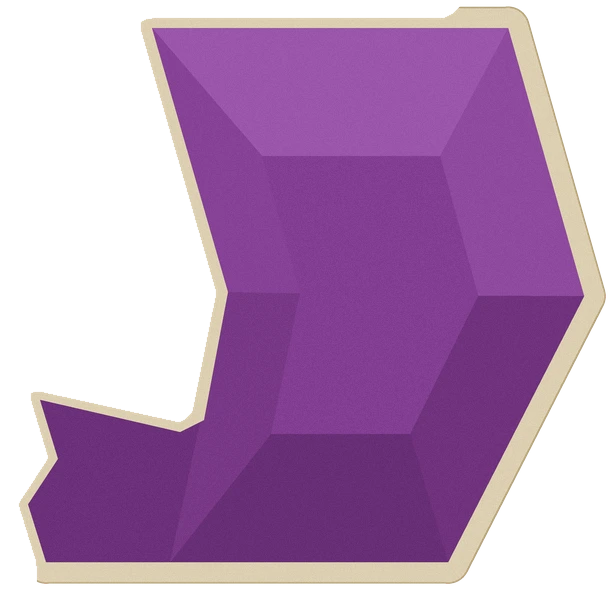
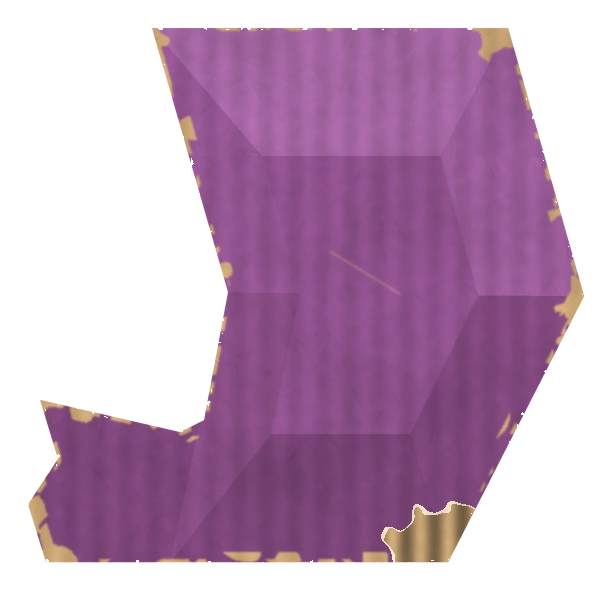
Corner: no rim, printed on kraft cardboard
The health, sparks, gem and turn board lose the beige rim and are now
printed on kraft board: the ink a little soaked in, fibres and flutes
showing through, the print rubbed off along the cut and round the
corners, a scratch or two, and at one corner the liner torn off down to
the corrugation. The disc chips get the same grain from a small tile
(board) laid over them.

Claude-Session: https://claude.ai/code/session_01KWEJqKg8RAuhCNceXPvBeb

diff --git a/src/style.css b/src/style.css
@@ -276,9 +276,11 @@ i.ico { display: inline-block; font-style: normal; }
 
 /* the discs of this turn: a stack of casino chips, the first at the bottom, stretched to fill the column; one still in hand
    shows the hero's disc on top (--disc, the room's picture; his colour without it) over a side in his dark colour with
-   light marks, the thrown ones fade from the top down */
+   light marks, the thrown ones fade from the top down. Like the rest of the corner they are cardboard: the board's grain
+   (--grain, the board picture once it loads) lies over both faces */
 .discs {
   --bx: 0; --by: 0; --bw: 78; --bh: 267; --e: calc(30 * var(--u)); --mk: color-mix(in srgb, var(--c, #888) 40%, #f4ead8);
+  --grain: none;
   display: flex; flex-direction: column-reverse; box-sizing: border-box; padding: calc(var(--e) / 2) 0;
   filter: drop-shadow(0 2px 0 rgba(0, 0, 0, 0.35));
 }
@@ -287,14 +289,17 @@ i.ico { display: inline-block; font-style: normal; }
 .discs i::before {
   content: ''; position: absolute; inset: 0 0 calc(var(--e) / -2);
   border-radius: 0 0 50% 50% / 0 0 calc(var(--e) / 2) calc(var(--e) / 2);
-  background: linear-gradient(90deg, transparent 9%, var(--mk) 9% 17%, transparent 17% 43%, var(--mk) 43% 57%, transparent 57% 83%, var(--mk) 83% 91%, transparent 91%) color-mix(in srgb, var(--c, #888) 62%, #000);
+  background: var(--grain) 0 0 / calc(160 * var(--u)), linear-gradient(90deg, transparent 9%, var(--mk) 9% 17%, transparent 17% 43%, var(--mk) 43% 57%, transparent 57% 83%, var(--mk) 83% 91%, transparent 91%) color-mix(in srgb, var(--c, #888) 62%, #000);
+  background-blend-mode: overlay, normal;
   box-shadow: 0 calc(5 * var(--u)) 0 rgba(0, 0, 0, 0.45);
 }
 /* the top, the hero's disc seen from the side: only the top chip's shows whole */
 .discs i::after {
   content: ''; position: absolute; left: 0; right: 0; top: calc(var(--e) / -2); height: var(--e); border-radius: 50%;
-  background: var(--disc, none) center / 100% 100% no-repeat var(--c, #888);
+  background: var(--grain) 0 0 / calc(160 * var(--u)), var(--disc, none) center / 100% 100% no-repeat var(--c, #888);
+  background-blend-mode: overlay, normal;
 }
+.art-board .discs { --grain: var(--ui-board); }
 .discs i:not(.on) { opacity: 0.3; filter: grayscale(1) brightness(0.5); }
 
 .hpbar { --bx: 79; --by: -14; --bw: 458; --bh: 230; }
@@ -850,13 +855,13 @@ img.art { display: block; width: 100%; height: 100%; object-fit: contain; pointe
 
 /* the health and the sparks as die-cut cardboard (art/ui/draw_corner.py draws them from Vladislav's sketch) */
 /* health: a bow tie with a dip on top, a waist below and a point on the right going into the gem (hp_empty, hp_full,
-   hp_shield: one shape, stretched whole). The red runs from x 28 to 888 of 916, so .track is that span and the fills stay
+   hp_shield: one shape, stretched whole). The red runs from x 24 to 891 of 916, so .track is that span and the fills stay
    plain percentages of it; each fill shows the same picture at the bar's full size (cqw/cqh of the track), shifted by where
    the fill starts (--x, set with it) */
 .art-hp_empty.art-hp_full .corner .hpbar { background: var(--ui-hp_empty) center / 100% 100% no-repeat; filter: drop-shadow(0 2px 0 rgba(0, 0, 0, 0.35)); }
-.art-hp_empty.art-hp_full .corner .hpbar .track { inset: 0 3.057% 0 3.057%; clip-path: none; background: none; container-type: size; }
+.art-hp_empty.art-hp_full .corner .hpbar .track { inset: 0 2.729% 0 2.620%; clip-path: none; background: none; container-type: size; }
 .art-hp_empty.art-hp_full .corner .hpbar.shielded .track { box-shadow: none; }
-.art-hp_empty.art-hp_full .corner .track > * { background: var(--ui-hp_full) calc(-3.256cqw - var(--x, 0) * 1cqw) 0 / 106.51cqw 100cqh no-repeat; }
+.art-hp_empty.art-hp_full .corner .track > * { background: var(--ui-hp_full) calc(-2.768cqw - var(--x, 0) * 1cqw) 0 / 105.65cqw 100cqh no-repeat; }
 .art-hp_empty.art-hp_full .corner .track s { background-image: var(--ui-hp_shield); }
 .art-hp_empty.art-hp_full .corner .track s.risk, .art-hp_empty.art-hp_full .corner .track em { filter: brightness(1.7) saturate(0.5); }
 /* the sparks: three pieces of one crystal, each its own picture in its own box */

diff --git a/art/ui/draw_corner.py b/art/ui/draw_corner.py
@@ -1,31 +1,32 @@
-"""Draws the fight corner's pieces as die-cut cardboard stickers (a beige rim, flat print, no ink line: Vladislav had the
-outline taken off and the shading flattened), after his sketch of 2026-10-18: next to the portrait a column for the stack
-of discs (drawn by style.css as chips), then a big health bar like a bow tie (a dip on top, a waist below, its right end a
-point), the sparks as a crystal strip under it split in two by a crack, and the ability gem standing the full height on
-the right with a notch the health bar's point goes into and a foot under the bar's end: the gem is the third spark, so the
-strip's second crack is the gem's edge. Over the bar's right half and the gem the turn button, its bottom following the
-bar's top.
+"""Draws the fight corner's pieces as die-cut cardboard (flat print on kraft board with its grain and flutes showing,
+rubbed edges and a torn corner; no ink line and no rim: Vladislav had both taken off and the shading flattened), after his
+sketch of 2026-10-18: next to the portrait a column for the stack of discs (drawn by style.css as chips), then a big
+health bar like a bow tie (a dip on top, a waist below, its right end a point), the sparks as a crystal strip under it
+split in two by a crack, and the ability gem standing the full height on the right with a notch the health bar's point
+goes into and a foot under the bar's end: the gem is the third spark, so the strip's second crack is the gem's edge. Over
+the bar's right half and the gem the turn button, its bottom following the bar's top.
 
 All pieces share one plan: the block is 713 x 267 units (x right, y down; the column starts at x 0; the turn button stands
-above it, at negative y). Pieces sit apart by a cut of 9..15 units; each sticker's rim only reaches halfway across a cut,
-so two pieces never paint over each other. Run from the repo root:
+above it, at negative y). Pieces sit apart by a cut of 9..15 units; a rim, if one is asked for, only reaches halfway
+across a cut, so two pieces never paint over each other. Run from the repo root:
 
     python3 art/ui/draw_corner.py [folder] [rim]
 
-It writes hp_empty|hp_full|hp_shield, spk_1..2_on|off, gem and turn (.webp) to public/assets/ui/ (or the folder; rim is
-the rim's width in pixels, 0 for none) and prints the numbers style.css needs: each picture's box in units, the red span
-of the health bar, and the outlines of the gem and the button as clip-path polygons, for where a tap lands.
+It writes hp_empty|hp_full|hp_shield, spk_1..2_on|off, gem, turn and the grain tile board (.webp) to public/assets/ui/
+(or the folder; rim is a beige rim's width in pixels to try one, none by default) and prints the numbers style.css needs:
+each picture's box in units, the red span of the health bar, and the outlines of the gem and the button as clip-path
+polygons, for where a tap lands.
 """
 import sys
 
-from PIL import Image, ImageDraw
+from PIL import Image, ImageDraw, ImageFilter
 import numpy as np
 
 OUT = (sys.argv[1].rstrip('/') + '/') if len(sys.argv) > 1 else 'public/assets/ui/'
 U = 2.0  # pixels per unit
 SS = 4  # supersampling
 M = 14  # margin round each picture, units
-RIM = float(sys.argv[2]) if len(sys.argv) > 2 else 20  # the beige rim round the print, pixels at 1x
+RIM = float(sys.argv[2]) if len(sys.argv) > 2 else 0  # a beige rim round the print, pixels at 1x (he had it taken off)
 RIM_COL, RIM_EDGE = (220, 207, 177), (176, 158, 118)
 BW, BH = 713, 267
 
@@ -116,11 +117,90 @@ def outline(d, p, width, fill):
         d.ellipse([x - r, y - r, x + r, y + r], fill=fill)
 
 
-def noise(img, amount, seed):
-    a = np.asarray(img).astype(np.int16)
-    n = np.random.default_rng(seed).integers(-amount, amount + 1, a.shape[:2])[..., None]
-    a[..., :3] = np.clip(a[..., :3] + n, 0, 255)
+# ---------- the board: kraft cardboard showing through the print ----------
+KRAFT = np.array((200, 164, 116), float)
+
+
+def smooth(rng, shape, scale):
+    """noise with blobs about scale pixels across, wrapping round the edges, scaled to about -1..1"""
+    h, w = shape
+    fy, fx = np.fft.fftfreq(h)[:, None], np.fft.fftfreq(w)[None, :]
+    a = np.real(np.fft.ifft2(np.fft.fft2(rng.standard_normal(shape)) * np.exp(-2 * (np.pi * scale / 4) ** 2 * (fx * fx + fy * fy))))
+    return np.clip(a / (2.5 * a.std()), -1, 1)
+
+
+def fibres(rng, shape, n):
+    """short pale and dark strokes of the pulp, -1..1, wrapping round the edges"""
+    h, w = shape
+    im = Image.new('L', (w, h), 128)
+    d = ImageDraw.Draw(im)
+    for _ in range(n):
+        x, y, ang, ln = rng.random() * w, rng.random() * h, rng.random() * np.pi, 8 + rng.random() * 18
+        v = 128 + int(rng.choice((-1, 1)) * (30 + rng.random() * 50))
+        dx, dy = np.cos(ang) * ln / 2, np.sin(ang) * ln / 2
+        for ox in (-w, 0, w):
+            for oy in (-h, 0, h):
+                d.line([(x + ox - dx, y + oy - dy), (x + ox + dx, y + oy + dy)], fill=v, width=2)
+    return np.asarray(im.filter(ImageFilter.GaussianBlur(0.6)), float) / 128 - 1
+
+
+def grain(rng, shape, flutes=True):
+    """how much lighter or darker the board is at each pixel, around 1: blotches, fibres and (on corrugated board) the
+    flutes under the liner showing through as faint stripes"""
+    h, w = shape
+    g = 1 + 0.05 * smooth(rng, shape, 70) + 0.03 * smooth(rng, shape, 14) + 0.07 * fibres(rng, shape, h * w // 500)
+    if flutes:
+        g += 0.045 * np.cos(2 * np.pi * np.arange(w) / 28)[None, :]
+    return g + rng.uniform(-0.015, 0.015, shape)
+
+
+def board(img, seed, corners):
+    """prints the picture on cardboard: the ink a little soaked into the kraft, the board's grain through it, the print
+    rubbed off to bare board in patches along the cut and round the corners (corners, pixels), a couple of scratches, the
+    liner torn off at one corner, and a few small nicks in the cut itself"""
+    rng = np.random.default_rng(seed)
+    a = np.asarray(img).astype(float)
+    shape = a.shape[:2]
+    alpha = img.getchannel('A')
+
+    def within(px):
+        return np.asarray(alpha.filter(ImageFilter.MinFilter(2 * px + 1)), float) < 128
+
+    yy, xx = np.mgrid[:shape[0], :shape[1]]
+    fine, coarse = smooth(rng, shape, 18), smooth(rng, shape, 40)
+    # round each corner a blob of bare board, its size and edge ragged
+    corner = np.zeros(shape)
+    for cx, cy in corners:
+        corner = np.maximum(corner, 1 - np.hypot(xx - cx, yy - cy) / (24 + rng.random() * 24))
+    worn = (within(3) & (fine > 0.1)) | (within(10) & (coarse > 0.5)) | (corner + 0.35 * fine > 0.5)
+    # scratches: a few thin strokes of bare board across the print
+    sc = Image.new('L', img.size, 0)
+    d = ImageDraw.Draw(sc)
+    for _ in range(rng.integers(1, 4)):
+        x, y, ang, ln = rng.random() * img.width, rng.random() * img.height, rng.uniform(-0.6, 0.6), 30 + rng.random() * 80
+        d.line([(x, y), (x + np.cos(ang) * ln, y + np.sin(ang) * ln)], fill=120, width=2)
+    wear = np.maximum(worn * 255.0, np.asarray(sc, float))
+    wear = np.asarray(Image.fromarray(wear.astype(np.uint8), 'L').filter(ImageFilter.GaussianBlur(1)), float)[..., None] / 255
+    g = grain(rng, shape)[..., None]
+    ink = a[..., :3] * 0.82 + KRAFT * 0.18
+    rgb = (ink * (1 - wear) + KRAFT * wear) * g
+    # at one corner the liner is torn off: the flutes under it bare, a pale ragged fringe of torn paper round them
+    cx, cy = corners[rng.integers(len(corners))]
+    r = 1 - np.hypot(xx - cx, yy - cy) / (100 + rng.random() * 50) + 0.18 * smooth(rng, shape, 22)
+    torn, fringe = r > 0.5, r > 0.46
+    ribs = KRAFT * (0.8 + 0.18 * np.cos(2 * np.pi * xx / 28))[..., None] * g
+    rgb = np.where(fringe[..., None], np.array((236, 224, 198), float) * g, rgb)
+    rgb = np.where(torn[..., None], ribs, rgb)
+    a[..., :3] = np.clip(rgb, 0, 255)
+    # nicks: the cut is a little ragged
+    a[..., 3] *= ~(within(2) & (smooth(rng, shape, 6) < -0.7))
     return Image.fromarray(a.astype(np.uint8), 'RGBA')
+
+
+def board_tile(seed, size=256):
+    """the board's grain alone as a grey tile that wraps, for style.css to lay over its own shapes (the disc chips)"""
+    g = grain(np.random.default_rng(seed), (size, size), flutes=False)
+    return Image.fromarray(np.clip(128 + (g - 1) * 500, 0, 255).astype(np.uint8), 'L')
 
 
 def box(name):
@@ -160,8 +240,22 @@ def lighter(col, n):
     return tuple(min(255, c + n) for c in col)
 
 
-def save(img, key, seed):
-    noise(img, 3, seed).save(OUT + key + '.webp', quality=92)
+def sharp(p):
+    """the polygon's outward corners sharper than 140 degrees"""
+    turn = sum(ax * by - bx * ay for (ax, ay), (bx, by) in zip(p, p[1:] + p[:1]))
+    out = []
+    for i, (x, y) in enumerate(p):
+        (ax, ay), (bx, by) = p[i - 1], p[(i + 1) % len(p)]
+        u, v = (x - ax, y - ay), (bx - x, by - y)
+        cross, dot = u[0] * v[1] - u[1] * v[0], u[0] * v[0] + u[1] * v[1]
+        if cross * turn > 0 and np.degrees(np.arctan2(abs(cross), dot)) > 40:
+            out.append((x, y))
+    return out
+
+
+def save(img, key, seed, name):
+    x0, y0, _, _ = box(name)
+    board(img, seed, [((x - x0) * U, (y - y0) * U) for x, y in sharp(PIECES[name])]).save(OUT + key + '.webp', quality=92)
 
 
 css = {}
@@ -172,7 +266,7 @@ for key, col in [('hp_empty', (46, 36, 28)), ('hp_full', (200, 45, 59)), ('hp_sh
     def paint(d, px, col=col):
         d.rectangle([px((-M, -M)), px((BW, BH + M))], fill=col + (255,))
         d.polygon([px(q) for q in band], fill=lighter(col, 9) + (255,))
-    save(sticker('hp', paint), key, 7)
+    save(sticker('hp', paint), key, 7, 'hp')
 css['hp'] = box('hp')
 red = np.asarray(Image.open(OUT + 'hp_full.webp').convert('RGB')).astype(int)
 xs = np.where(((red[..., 0] > 170) & (red[..., 1] < 90)).any(axis=0))[0]
@@ -191,7 +285,7 @@ for k in range(2):
         def paint(d, px, c=c):
             d.rectangle([px((-M, -M)), px((BW, BH + M))], fill=c['base'] + (255,))
             d.polygon([px(q) for q in upper], fill=c['up'] + (255,))
-        save(sticker(f'spk_{k + 1}', paint), f'spk_{k + 1}_{state}', 11 + k)
+        save(sticker(f'spk_{k + 1}', paint), f'spk_{k + 1}_{state}', 11 + k, f'spk_{k + 1}')
     css[f'spk_{k + 1}'] = box(f'spk_{k + 1}')
 
 # ---------- the gem: facets round a flat middle face of its body, a shade apart, lit from the top left; the foot one facet ----------
@@ -209,7 +303,7 @@ def paint_gem(d, px):
     d.polygon([px(q) for q in inner], fill=(130, 62, 146, 255))
 
 
-save(sticker('gem', paint_gem), 'gem', 31)
+save(sticker('gem', paint_gem), 'gem', 31, 'gem')
 css['gem'] = box('gem')
 
 # ---------- the turn button: mustard board with a lighter band along its top ----------
@@ -222,8 +316,10 @@ def paint_turn(d, px):
     d.polygon([px(q) for q in turn_band], fill=lighter(MUSTARD, 10) + (255,))
 
 
-save(sticker('turn', paint_turn), 'turn', 41)
+save(sticker('turn', paint_turn), 'turn', 41, 'turn')
 css['turn'] = box('turn')
+
+board_tile(51).save(OUT + 'board.webp', quality=90)
 
 # ---------- the numbers for style.css ----------
 print(f'block {BW} x {BH} units')

diff --git a/README.md b/README.md
@@ -131,7 +131,7 @@ npm run build    # сборка в dist/
 
 `<этаж>`: `prison`, `ice`, `forge` (поле `art` у биома в `src/data.ts`). Шипы-ловушки рисуются кодом: плоская плита картонкой при повороте камеры смотрится ромбом. Надписи на стенах пишутся белым мелом рукописными шрифтами Amatic SC, Caveat и Neucha, английские и русские слова вперемешку в `WALL_WORDS` в `src/data.ts` (`all` на всех этажах плюс свои у каждого этажа). Надписи и рисунки мелом раскладываются один раз на комнату, не больше четырёх и без повторов в одной комнате, разного размера и наклона (рисунки иногда отзеркалены), в обход факелов и знамён. Промты рисунков в `CartoonGen/prompts/env/doodles.py`.
 
-Интерфейс в стиле «картон» (вырубленные жетоны настолки с бежевой кромкой) берётся из раздела `ui` манифеста, файлы в `public/assets/ui/`. Пока картинка не загрузилась, кнопки и значки рисуются кодом в том же духе. Загруженная картинка доступна стилям как `var(--ui-<ключ>)` под классом `art-<ключ>` на `<html>`, а в разметке как `<i data-art="<ключ>">`. Угол героя после портрета (здоровье `hp_*`, искры `spk_*`, кристалл способности `gem` и кнопка хода `turn` над ними) нарисован кодом по схеме Владислава, плоско и без чёрной обводки: `python3 art/ui/draw_corner.py` перерисовывает его и печатает числа, которые нужны `style.css` (`python3 art/ui/draw_corner.py <папка> 0` рисует те же куски без бежевой кромки). Диски рядом с портретом своей картинки не имеют: это стопка фишек в CSS, сверху шайба героя `disc_*`, сбоку его цвет. Значки трофеев (`art_<ключ трофея>`) и сцены `loot_king`/`loot_lich` нарисованы на FLUX (промты в `CartoonGen/prompts/artifacts/`); `python3 art/ui/cut_arts.py <папка с рендерами> <куда>` вырезает у значков белый фон, который касается края картинки, и собирает лист вариантов, а с `--pick ключ=номер` ставит выбранные варианты в игру. Третья тройка героев (фигурки `kid`, `bum`, `genius`, их шайбы `disc_*`, значки способностей `ab_*`, петарда `petard`, статусы `ico_gas`, `ico_slow` и `ico_petard`) нарисована FLUX, как и остальные герои; промты лежат в файлах проекта, в `discodungeon/heroes3/prompts/`. Петарда стоит по центру картинки 120×200, а искра у фитиля рисуется игрой в точке 75% ширины и 5% высоты от верха (`drawBomb` в `src/draw/scene.ts`).
+Интерфейс в стиле «картон» (вырубленные жетоны настолки с бежевой кромкой) берётся из раздела `ui` манифеста, файлы в `public/assets/ui/`. Пока картинка не загрузилась, кнопки и значки рисуются кодом в том же духе. Загруженная картинка доступна стилям как `var(--ui-<ключ>)` под классом `art-<ключ>` на `<html>`, а в разметке как `<i data-art="<ключ>">`. Угол героя после портрета (здоровье `hp_*`, искры `spk_*`, кристалл способности `gem` и кнопка хода `turn` над ними) нарисован кодом по схеме Владислава: плоская печать на крафт-картоне (волокна, проступающая гофра, потёртые края, оторванный уголок), без чёрной обводки и без кромки. `python3 art/ui/draw_corner.py` перерисовывает его и печатает числа, которые нужны `style.css` (`python3 art/ui/draw_corner.py <папка> 20` рисует те же куски с бежевой кромкой в 20 пикселей). Диски рядом с портретом своей картинки не имеют: это стопка фишек в CSS, сверху шайба героя `disc_*`, сбоку его цвет, поверх зерно картона `board`. Значки трофеев (`art_<ключ трофея>`) и сцены `loot_king`/`loot_lich` нарисованы на FLUX (промты в `CartoonGen/prompts/artifacts/`); `python3 art/ui/cut_arts.py <папка с рендерами> <куда>` вырезает у значков белый фон, который касается края картинки, и собирает лист вариантов, а с `--pick ключ=номер` ставит выбранные варианты в игру. Третья тройка героев (фигурки `kid`, `bum`, `genius`, их шайбы `disc_*`, значки способностей `ab_*`, петарда `petard`, статусы `ico_gas`, `ico_slow` и `ico_petard`) нарисована FLUX, как и остальные герои; промты лежат в файлах проекта, в `discodungeon/heroes3/prompts/`. Петарда стоит по центру картинки 120×200, а искра у фитиля рисуется игрой в точке 75% ширины и 5% высоты от верха (`drawBomb` в `src/draw/scene.ts`).
 
 Надписи интерфейса набраны Oswald (заголовки, кнопки, числа), а описания, подсказки и подписи написаны от руки шрифтом Caveat, он лежит в `src/fonts/` (лицензия OFL там же) и увеличен на 40%, чтобы стоять в тех же размерах, что Oswald. Герои и враги на поле подкрашены светом этажа (поле `light` у биома): тёплым от факелов в тюрьме, холодным в склепе, жарким в кузне.
 
@@ -146,7 +146,8 @@ npm run build    # сборка в dist/
 | `camp_rest`, `camp_mend`, `camp_dig` | сосиска на палке, бинт, кирка на руде | выборы в окне костра |
 | `m_<что>` | кнопки меню, «Назад», «Закрыть», хозяин комнаты, ссылка | наклейкой на левом краю кнопки |
 | `logo`, `lose` | диско-шар на цепи, надгробие | над названием в меню, на экране поражения |
-| `hp_empty`, `hp_full`, `hp_shield` | большая полоса-«бабочка» по схеме Владислава: сверху провал, снизу талия, правый конец остриём входит в выемку кристалла; пустая, красная и голубая одной формы, 916×460 | здоровье героя в углу: снизу пустая, поверх красная по доле здоровья и голубая по доле щита; красное идёт от x 28 до 888 из 916, растягивается только целиком |
+| `hp_empty`, `hp_full`, `hp_shield` | большая полоса-«бабочка» по схеме Владислава: сверху провал, снизу талия, правый конец остриём входит в выемку кристалла; пустая, красная и голубая одной формы, 916×460 | здоровье героя в углу: снизу пустая, поверх красная по доле здоровья и голубая по доле щита; красное идёт от x 24 до 891 из 916, растягивается только целиком |
+| `board` | серая плитка зерна картона 256×256, бесшовная | ложится поверх фишек-дисков в углу (режим overlay), чтобы они были из того же картона |
 | `spk_1_on` … `spk_2_off` | полоса-кристалл под здоровьем, расколотая трещиной на два куска, горящий и потухший у каждого | две искры; третья искра это сам кристалл способности, он загорается, когда искр хватает |
 | `gem` | кристалл способности во всю высоту блока, с остриём вправо, выемкой слева под острие здоровья и «ногой» под концом полосы здоровья до трещины искр | кнопка способности и третья искра; значок `ab_*` в средней грани, светится, когда искры полные |
 | `ab_<герой>` | однотонный кремовый значок способности: щит, летящая шайба, пламя, молния, куриная ножка, веер карт | в кристалле способности вместо её названия |
